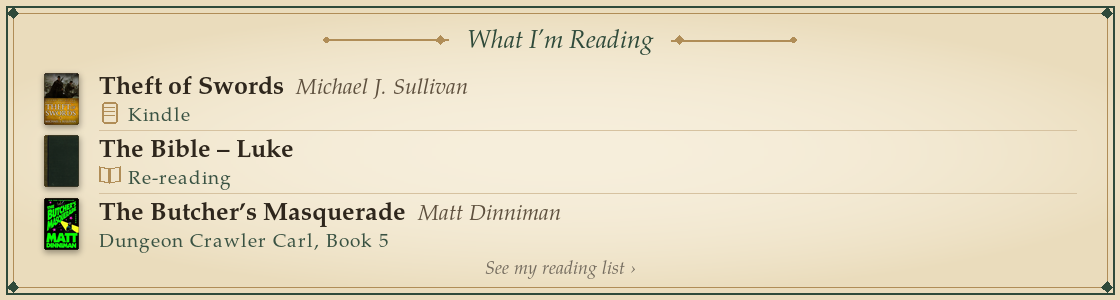
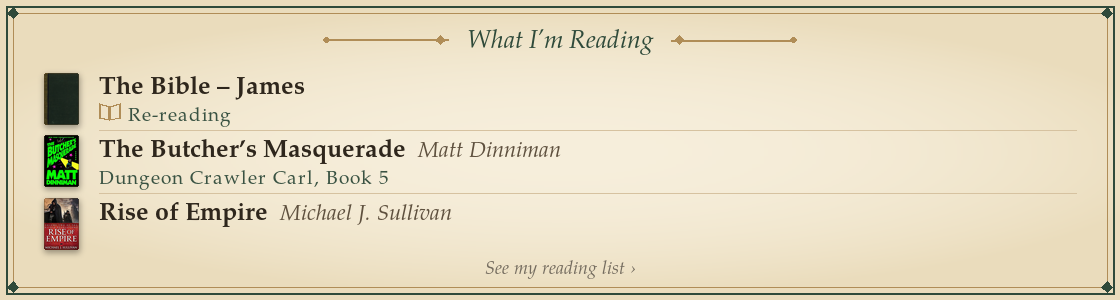
Now reading: The Bible – James; The Butcher’s Masquerade; Rise of Empire

diff --git a/index.html b/index.html
@@ -66,23 +66,15 @@ footer { margin-top: 48px; text-align: center; font-size: 13px; color: var(--mut
 <body>
 <main>
   <header>
-    <p class="kicker">Updated November 5, 2026</p>
+    <p class="kicker">Updated November 25, 2026</p>
     <h1>What Josh is reading</h1>
     <div class="rule" aria-hidden="true">&#10070;</div>
   </header>
   <section class="now" aria-label="Reading now">
       <article class="book">
-        <img class="cover" src="covers/theft-of-swords-6c717fe0.jpg" alt="Cover of Theft of Swords" loading="lazy">
+        <img class="cover" src="covers/the-bible-luke-ce91f3b3.jpg" alt="Cover of The Bible – James" loading="lazy">
         <div class="info">
-          <h3><a href="https://www.goodreads.com/search?q=Theft+of+Swords+Michael+J.+Sullivan" rel="noopener">Theft of Swords</a></h3>
-          <p class="author">Michael J. Sullivan</p>
-          <p class="how">Reading on Kindle</p>
-        </div>
-      </article>
-      <article class="book">
-        <img class="cover" src="covers/the-bible-luke-ce91f3b3.jpg" alt="Cover of The Bible – Luke" loading="lazy">
-        <div class="info">
-          <h3><a href="https://www.goodreads.com/search?q=The+Bible+-+Luke" rel="noopener">The Bible – Luke</a></h3>
+          <h3><a href="https://www.goodreads.com/search?q=The+Bible+-+James" rel="noopener">The Bible – James</a></h3>
           <p class="author"></p>
           <p class="how">Re-reading</p>
         </div>
@@ -95,10 +87,24 @@ footer { margin-top: 48px; text-align: center; font-size: 13px; color: var(--mut
           <p class="series">Dungeon Crawler Carl, Book 5</p>
         </div>
       </article>
+      <article class="book">
+        <img class="cover" src="covers/rise-of-empire-d59ce949.jpg" alt="Cover of Rise of Empire" loading="lazy">
+        <div class="info">
+          <h3><a href="https://www.goodreads.com/search?q=Rise+of+Empire+Michael+J.+Sullivan" rel="noopener">Rise of Empire</a></h3>
+          <p class="author">Michael J. Sullivan</p>
+          
+        </div>
+      </article>
   </section>
     <section class="finished">
       <h2>Recently finished</h2>
       <ul>
+        <li>
+          <img class="mini" src="covers/theft-of-swords-6c717fe0.jpg" alt="Cover of Theft of Swords" loading="lazy">
+          <div><a href="https://www.goodreads.com/search?q=Theft+of+Swords+Michael+J.+Sullivan" rel="noopener">Theft of Swords</a>
+          <span class="by">Michael J. Sullivan</span>
+          <span class="date">Finished November 2026</span></div>
+        </li>
         <li>
           <img class="mini" src="covers/the-fellowship-of-the-ring-00020413.jpg" alt="Cover of The Fellowship of the Ring" loading="lazy">
           <div><a href="https://www.goodreads.com/search?q=The+Fellowship+of+the+Ring+J.R.R.+Tolkien" rel="noopener">The Fellowship of the Ring</a>
